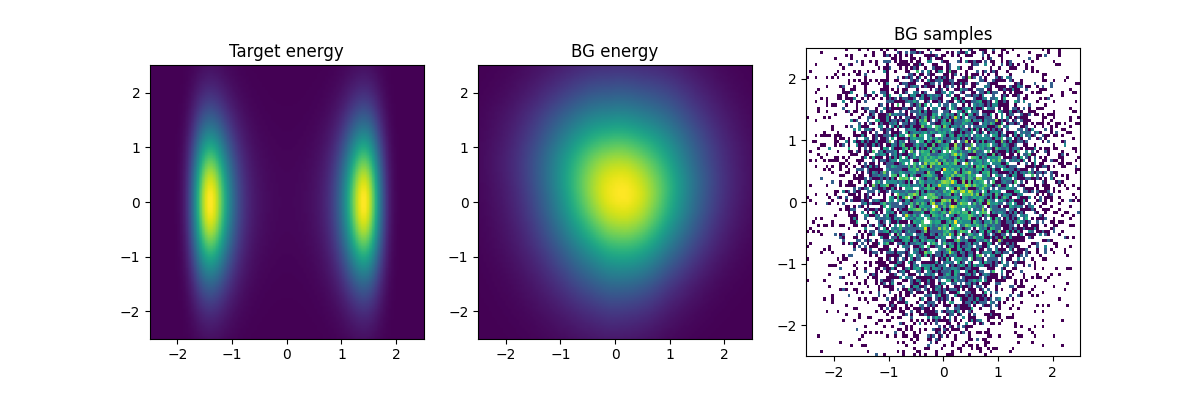
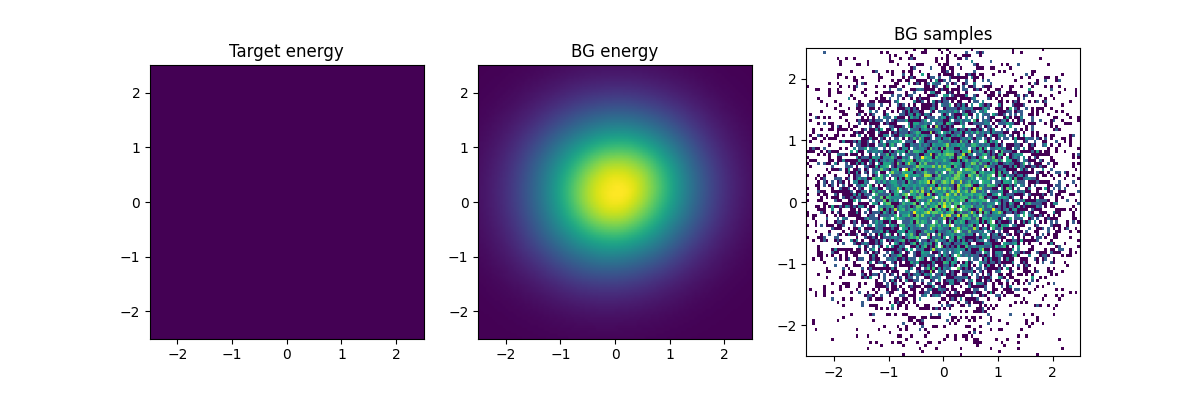
adding gp implementation

diff --git a/bgflow/notebooks/example_gp.py b/bgflow/notebooks/example_gp.py
@@ -1,0 +1,337 @@
+import torch
+import numpy as np
+import matplotlib.pyplot as plt
+import matplotlib as mpl
+
+
+# --- GP setup ---
+N = 50
+X = np.linspace(-2.5, 2.5, N)[:, None]  # shape (N, 1)
+
+def rbf_kernel(X, lengthscale=1.0, variance=1.0):
+	X = np.asarray(X)
+	sqdist = np.sum(X**2, 1).reshape(-1, 1) + np.sum(X**2, 1) - 2 * np.dot(X, X.T)
+	return variance * np.exp(-0.5 / lengthscale**2 * sqdist)
+
+K = rbf_kernel(X, lengthscale=1.0, variance=1.0)
+K_inv = np.linalg.inv(K + 1e-6 * np.eye(N))
+y = np.sin(X).ravel() + 0.1 * np.random.randn(N)
+sigma2 = 0.01
+
+class GPEnergy:
+    def __init__(self, y, K_inv, sigma2):
+        self.y = torch.tensor(y, dtype=torch.float32)
+        self.K_inv = torch.tensor(K_inv, dtype=torch.float32)
+        self.sigma2 = sigma2
+        self.event_shapes = [(len(y),)]  # 
+
+    def energy(self, f, temperature=None, **kwargs):
+        if f.ndim == 1:
+            f = f.unsqueeze(0)
+        diff = self.y - f
+        quad = torch.einsum('bi,ij,bj->b', f, self.K_inv, f)
+        data_fit = torch.sum(diff**2, dim=-1) / (2 * self.sigma2)
+        return data_fit + 0.5 * quad
+
+dim = N
+target = GPEnergy(y, K_inv, sigma2)
+
+# define some plotting functions
+from bgflow.utils.types import assert_numpy
+def plot_energy(energy, extent=(-2.5, 2.5), resolution=100, dim=2, img_name=None):
+	""" Plot energy functions in 2D """
+	xs = torch.meshgrid([torch.linspace(*extent, resolution) for _ in range(2)])
+	xs = torch.stack(xs, dim=-1).view(-1, 2)
+	xs = torch.cat([
+		xs,
+		torch.Tensor(xs.shape[0], dim - xs.shape[-1]).zero_()
+	], dim=-1)
+	us = energy.energy(xs).view(resolution, resolution)
+	us = torch.exp(-us)
+	plt.imshow(assert_numpy(us).T, extent=extent * 2)
+	plt.xlim(extent[0], extent[1])
+	plt.ylim(extent[0], extent[1])
+	if img_name:
+		plt.savefig(img_name)
+		plt.close()
+
+def plot_samples(samples, weights=None, range=None, img_name=None):
+	""" Plot sample histogram in 2D """
+	samples = assert_numpy(samples)
+	plt.hist2d(
+		samples[:, 0],
+		-samples[:, 1],
+		weights=assert_numpy(weights) if weights is not None else weights,
+		bins=100,
+		norm=mpl.colors.LogNorm(),
+		range=range
+	)
+	if img_name:
+		plt.savefig(img_name)
+		plt.close()
+
+def plot_bg(bg, target, n_samples=10000, range=[-2.5, 2.5], dim=2, img_prefix=None):
+	""" Plot target energy, bg energy and bg sample histogram"""
+	plt.figure(figsize=(12, 4))
+	plt.subplot(1, 3, 1)
+	plot_energy(target, extent=range, dim=dim)
+	plt.title("Target energy")
+	plt.subplot(1, 3, 2)
+	plot_energy(bg, extent=range, dim=dim)
+	plt.title("BG energy")
+	plt.subplot(1, 3, 3)
+	plot_samples(bg.sample(n_samples), range=[range, range])
+	plt.title("BG samples")
+	if img_prefix:
+		plt.savefig(img_prefix + "_bg.png")
+		plt.close()
+
+def plot_weighted_energy_estimate(bg, target, n_samples=100000, extent=None, n_bins=100, range=[-2, 2], dim=dim, img_prefix=None):
+	""" Plot weighed energy from samples """
+	samples, latent, dlogp = bg.sample(n_samples, with_latent=True, with_dlogp=True)
+	log_weights = bg.log_weights_given_latent(samples, latent, dlogp)
+	plt.figure(figsize=(12, 4))
+	plt.subplot(1, 3, 1)
+	_, bins, _ = plt.hist(assert_numpy(samples[:, 0]), histtype="step", log=True, bins=n_bins, weights=None, density=True, label="samples", range=range)
+	xs = torch.linspace(*range, n_bins).view(-1, 1)
+	xs = torch.cat([xs, torch.zeros(xs.shape[0], dim - 1)], dim=-1).view(-1, dim)
+	us = target.energy(xs).view(-1)
+	us = torch.exp(-us)
+	us = us / torch.sum(us * (bins[-1] - bins[0]) / n_bins)
+	plt.plot(xs[:, 0], us, label="$\\log p(x)$")
+	plt.xlabel("$x0$")
+	plt.ylabel("log density")
+	plt.legend()
+	plt.title("unweighed energy")
+	plt.subplot(1, 3, 2)
+	_, bins, _ = plt.hist(assert_numpy(samples[:, 0]), histtype="step", log=True, bins=n_bins, weights=assert_numpy(log_weights.exp()), density=True, label="samples", range=range)
+	plt.plot(xs[:, 0], us, label="$\\log p(x)$")
+	plt.xlabel("$x0$")
+	plt.legend()
+	plt.title("weighed energy")
+	plt.subplot(1, 3, 3)
+	plt.xlabel("$x0$")
+	plt.ylabel("$x1$")
+	plot_samples(samples, weights=log_weights.exp(), range=[range, range])
+	plt.title("weighed samples")
+	if img_prefix:
+		plt.savefig(img_prefix + "_weighted.png")
+		plt.close()
+
+# plot target energy
+plot_energy(target, dim=dim, img_name="images/target_energy.png")
+
+# define a MCMC sampler to sample from the target energy
+from bgflow import GaussianMCMCSampler
+init_state = torch.Tensor([[-2, 0], [2, 0]])
+init_state = torch.cat([init_state, torch.Tensor(init_state.shape[0], dim-2).normal_()], dim=-1)
+target_sampler = GaussianMCMCSampler(target, init_state=init_state)
+
+# sample some data
+data = target_sampler.sample(50000)
+plot_samples(data, img_name="images/target_samples.png")
+
+data.pow(2).sum(dim=-1).sqrt().mean()
+
+from bgflow import Energy, Sampler
+from torch.distributions.chi2 import Chi2
+from torch.distributions.gamma import Gamma
+
+class HypersphericalPrior(Energy, Sampler):
+	def __init__(self, dim, concentration=1.):
+		super().__init__(dim)
+		r = np.sqrt(dim) / 2
+		rate = concentration / r
+		self._gamma = Gamma(concentration, rate)
+	def _energy(self, x):
+		d2 = x.pow(2).sum(dim=-1, keepdim=True)
+		d = (d2 + 1e-7).sqrt()
+		return -self._gamma.log_prob(d)
+	def _sample(self, n_samples):
+		x = torch.Tensor(n_samples, self._dim).normal_()
+		d2 = x.pow(2).sum(dim=-1, keepdim=True)
+		d = (d2 + 1e-7).sqrt()
+		r = x / d
+		s = self._gamma.sample((n_samples, 1))
+		return r * s
+
+# now set up a prior
+from bgflow import NormalDistribution
+prior = NormalDistribution(dim)
+# prior = HypersphericalPrior(dim, concentration=10)
+
+# define a flow with RNVP coupling layers
+from bgflow.nn import (
+	DenseNet,
+	SequentialFlow, 
+	CouplingFlow, 
+	AffineFlow, 
+	SplitFlow, 
+	InverseFlow, 
+	SwapFlow,
+	AffineTransformer
+)
+layers = []
+layers.append(SplitFlow(dim // 2))
+n_coupling_layers = 4
+for _ in range(n_coupling_layers):
+	layers.append(SwapFlow())
+	layers.append(CouplingFlow(
+		AffineTransformer(
+			shift_transformation=DenseNet([dim // 2, 64, 64, dim // 2], activation=torch.nn.ReLU()),
+			scale_transformation=DenseNet([dim // 2, 64, 64, dim // 2], activation=torch.nn.ReLU())
+		)
+	))
+layers.append(InverseFlow(SplitFlow(dim // 2)))
+flow = SequentialFlow(layers)
+
+# having a flow and a prior, we can now define a Boltzmann Generator
+from bgflow import BoltzmannGenerator
+bg = BoltzmannGenerator(prior, flow, target)
+
+# initial bg should not be useful
+# plot_bg(bg, target, dim=dim, img_prefix="images/initial")
+# plot_weighted_energy_estimate(bg, target, img_prefix="images/initial")
+
+from bgflow.utils.types import is_list_or_tuple
+class LossReporter:
+	"""
+		Simple reporter use for reporting losses and plotting them.
+	"""
+	def __init__(self, *labels):
+		self._labels = labels
+		self._n_reported = len(labels)
+		self._raw = [[] for _ in range(self._n_reported)]
+	def report(self, *losses):
+		assert len(losses) == self._n_reported
+		for i in range(self._n_reported):
+			self._raw[i].append(assert_numpy(losses[i]))
+	def plot(self, n_smooth=10, img_name=None):
+		fig, axes = plt.subplots(self._n_reported, sharex=True)
+		if not isinstance(axes, np.ndarray):
+			axes = [axes]
+		fig.set_size_inches((8, 4 * self._n_reported), forward=True)
+		for i, (label, raw, axis) in enumerate(zip(self._labels, self._raw, axes)):
+			raw = assert_numpy(raw).reshape(-1)
+			kernel = np.ones(shape=(n_smooth,)) / n_smooth
+			smoothed = np.convolve(raw, kernel, mode="valid")
+			axis.plot(smoothed)
+			axis.set_ylabel(label)
+			if i == self._n_reported - 1:
+				axis.set_xlabel("Iteration")
+		if img_name:
+			plt.savefig(img_name)
+			plt.close()
+	def recent(self, n_recent=1):
+		return np.array([raw[-n_recent:] for raw in self._raw])
+
+# initial training with likelihood maximization on data set
+from bgflow.utils.train import IndexBatchIterator
+n_batch = 8 #. 32
+batch_iter = IndexBatchIterator(len(data), n_batch)
+optim = torch.optim.Adam(bg.parameters(), lr=5e-3)
+n_epochs = 5
+n_report_steps = 50
+reporter = LossReporter("NLL")
+
+for epoch in range(n_epochs):
+	for it, idxs in enumerate(batch_iter):
+		batch = data[idxs]
+		optim.zero_grad()
+		nll = bg.energy(batch).mean()
+		nll.backward()
+		reporter.report(nll)
+		optim.step()
+		if it % n_report_steps == 0:
+			print("\repoch: {0}, iter: {1}/{2}, NLL: {3:.4}".format(
+					epoch,
+					it,
+					len(batch_iter),
+					*reporter.recent(1).ravel()
+				), end="")
+
+reporter.plot(img_name="images/loss_nll.png")
+
+# bg after ML training
+# plot_bg(bg, target, dim=dim, img_prefix="images/ml")
+# plot_weighted_energy_estimate(bg, target, dim=dim, img_prefix="images/ml")
+
+
+
+
+
+def plot_gp_posterior_samples(bg, X, n_samples=50, img_name=None):
+    samples = bg.sample(n_samples).detach().cpu().numpy()  # shape (n_samples, N)
+    plt.figure(figsize=(8, 5))
+    for i in range(n_samples):
+        plt.plot(X.ravel(), samples[i], color='blue', alpha=0.3)
+    plt.plot(X.ravel(), y, color='black', lw=2, label='Observed y')
+    plt.xlabel('X')
+    plt.ylabel('f(X)')
+    plt.title('GP Posterior Samples (BG)')
+    plt.legend()
+    if img_name:
+        plt.savefig(img_name)
+        plt.close()
+    else:
+        plt.show()
+
+def plot_gp_mean_std(bg, X, n_samples=100, img_name=None):
+    samples = bg.sample(n_samples).detach().cpu().numpy()
+    mean = samples.mean(axis=0)
+    std = samples.std(axis=0)
+    plt.figure(figsize=(8, 5))
+    plt.plot(X.ravel(), mean, color='red', lw=2, label='Posterior mean')
+    plt.fill_between(X.ravel(), mean-2*std, mean+2*std, color='red', alpha=0.2, label='±2 std')
+    plt.plot(X.ravel(), y, color='black', lw=2, label='Observed y')
+    plt.xlabel('X')
+    plt.ylabel('f(X)')
+    plt.title('GP Posterior Mean and Uncertainty')
+    plt.legend()
+    if img_name:
+        plt.savefig(img_name)
+        plt.close()
+    else:
+        plt.show()
+
+plot_gp_posterior_samples(bg, X, n_samples=50, img_name='images/gp_posterior_samples.png')
+plot_gp_mean_std(bg, X, n_samples=100, img_name='images/gp_mean_std.png')
+
+
+
+
+# train with convex mixture of NLL and KL loss
+from bgflow.utils.train import IndexBatchIterator
+n_kl_samples = 128 # 128
+n_batch = 128 #. 128
+batch_iter = IndexBatchIterator(len(data), n_batch)
+optim = torch.optim.Adam(bg.parameters(), lr=5e-3)
+n_epochs = 5
+n_report_steps = 50
+lambdas = torch.linspace(1., 0.5, n_epochs)
+reporter = LossReporter("NLL", "KLL")
+
+for epoch, lamb in enumerate(lambdas):
+	for it, idxs in enumerate(batch_iter):
+		batch = data[idxs]
+		optim.zero_grad()
+		nll = bg.energy(batch).mean()
+		(lamb * nll).backward()
+		kll = bg.kldiv(n_kl_samples).mean()
+		((1. - lamb) * kll).backward()
+		reporter.report(nll, kll)
+		optim.step()
+		if it % n_report_steps == 0:
+			print("\repoch: {0}, iter: {1}/{2}, lambda: {3}, NLL: {4:.4}, KLL: {5:.4}".format(
+					epoch,
+					it,
+					len(batch_iter),
+					lamb,
+					*reporter.recent(1).ravel()
+				), end="")
+
+reporter.plot(img_name="images/loss_nll_kll.png")
+
+# bg after ML + KL training
+# plot_bg(bg, target, dim=dim, img_prefix="images/ml_kl")
+# plot_weighted_energy_estimate(bg, target, dim=dim, img_prefix="images/ml_kl")
